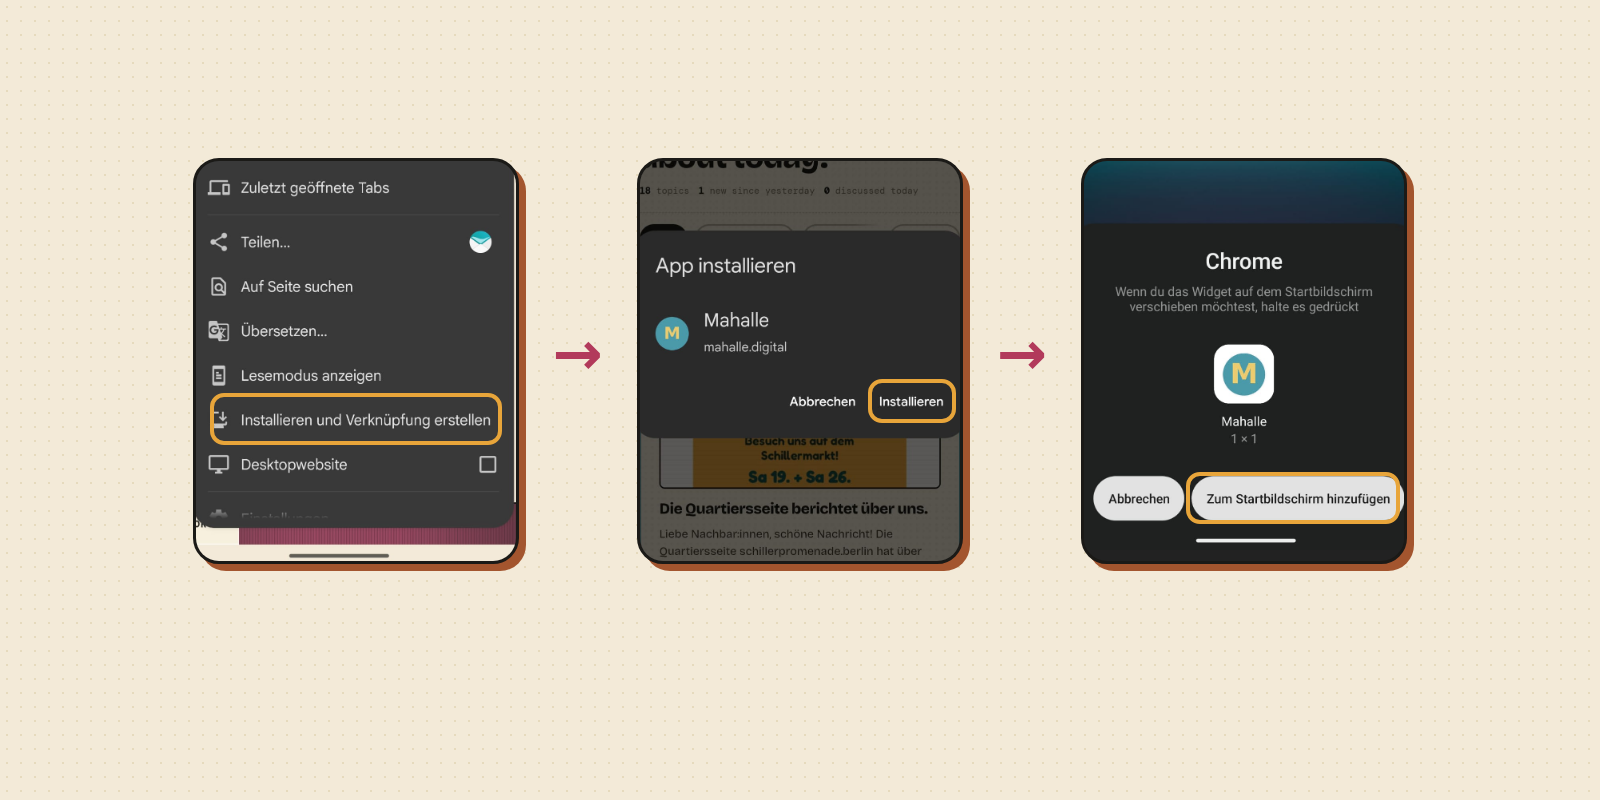
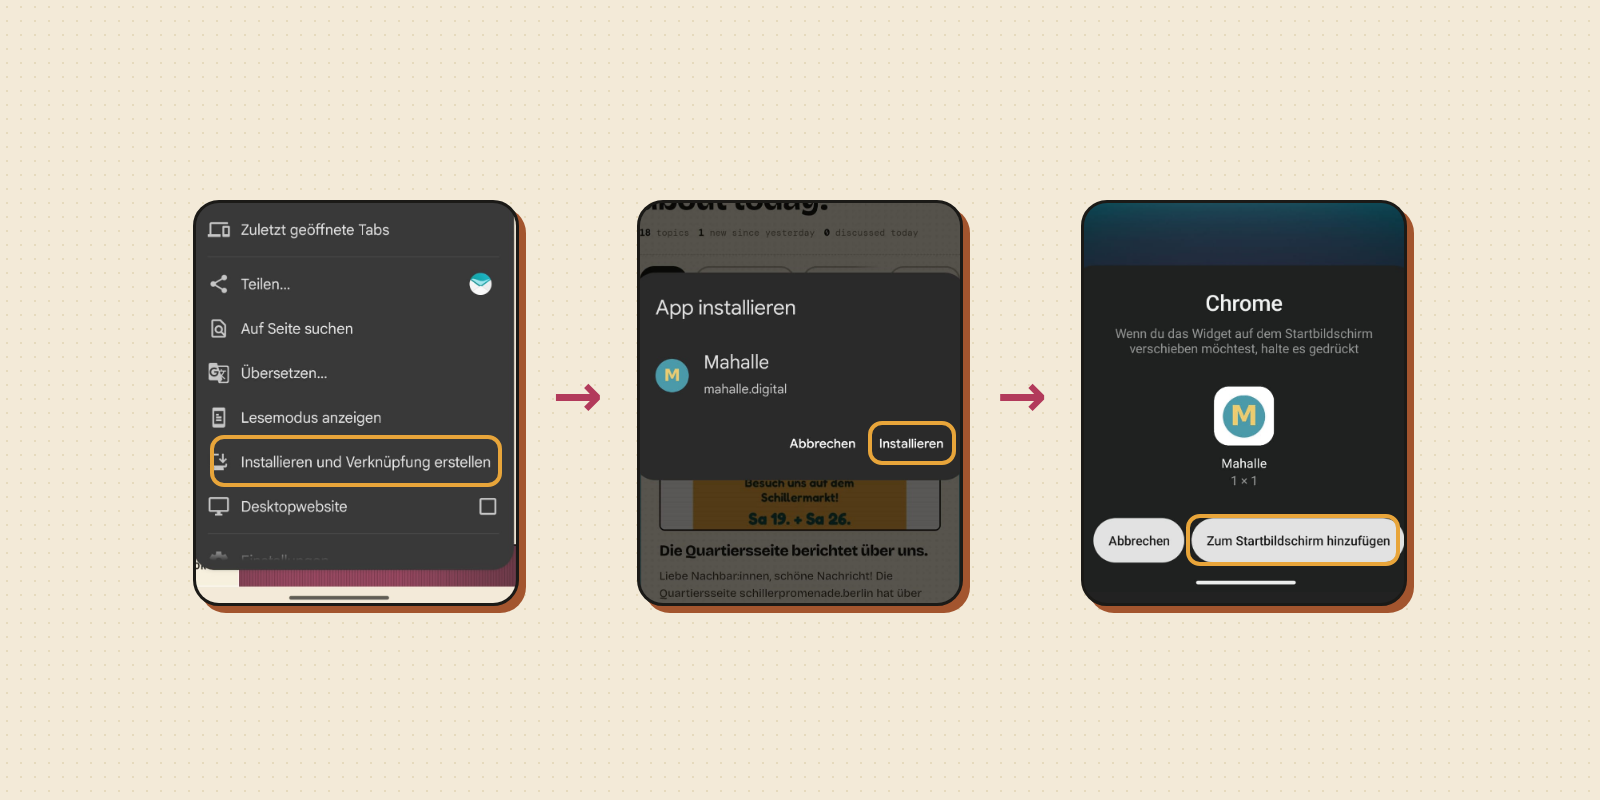
blog: hero title band below the cover, cover boxed in the page column with a top margin

diff --git a/src/components/blog/kiosk/BlogArticleHeader.svelte b/src/components/blog/kiosk/BlogArticleHeader.svelte
@@ -66,26 +66,20 @@
 
 {#if variant === 'hero'}
   {#if post.cover}
-    <div class="relative">
-      <img
-        src={post.cover}
-        alt={post.coverAlt ?? ''}
-        width={post.coverWidth}
-        height={post.coverHeight}
-        class="w-full object-cover h-[260px] lg:h-[420px]"
-        style="border-bottom: 2px solid var(--k-ink);"
-      />
-      <div class="absolute left-0 right-0 flex justify-center" style="bottom: -74px;">
-        {@render heroBand()}
-      </div>
-    </div>
-  {:else}
-    <!-- coverless hero: no band overlap — render the ink title band in flow -->
-    <div class="flex justify-center px-5" style="padding-top: 24px;">
-      {@render heroBand()}
-    </div>
+    <!-- cover sits clear of the read bar; the title band follows BELOW it, never on top of the picture -->
+    <img
+      src={post.cover}
+      alt={post.coverAlt ?? ''}
+      width={post.coverWidth}
+      height={post.coverHeight}
+      class="block w-[calc(100%-32px)] max-w-[1200px] mx-auto object-cover aspect-[2/1] h-auto lg:aspect-auto lg:h-[400px]"
+      style="margin-top: 24px; border: 2px solid var(--k-ink); border-radius: var(--k-radius-lg); box-shadow: 3px 3px 0 var(--k-ink);"
+    />
   {/if}
-  <div class="text-center" style="padding-top: {post.cover ? '98px' : '24px'};">
+  <div class="flex justify-center px-5" style="padding-top: 24px;">
+    {@render heroBand()}
+  </div>
+  <div class="text-center" style="padding-top: 24px;">
     <div class="font-instrument italic" style="font-size: 19px; line-height: 1.45; color: var(--k-ink-soft); max-width: 780px; margin: 0 auto;">{description}</div>
     <div class="flex justify-center" style="margin-top: 10px;"><BlPostMeta {post} /></div>
     <div style="width: 56px; height: 3px; background: var(--k-rust); margin: 16px auto 0;"></div>
